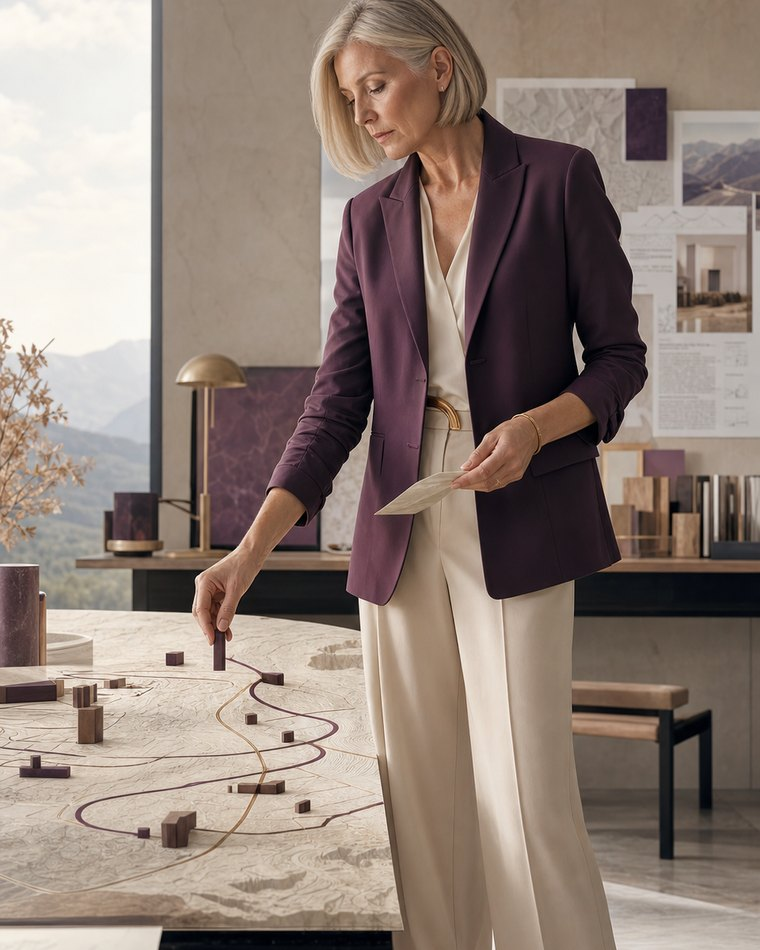
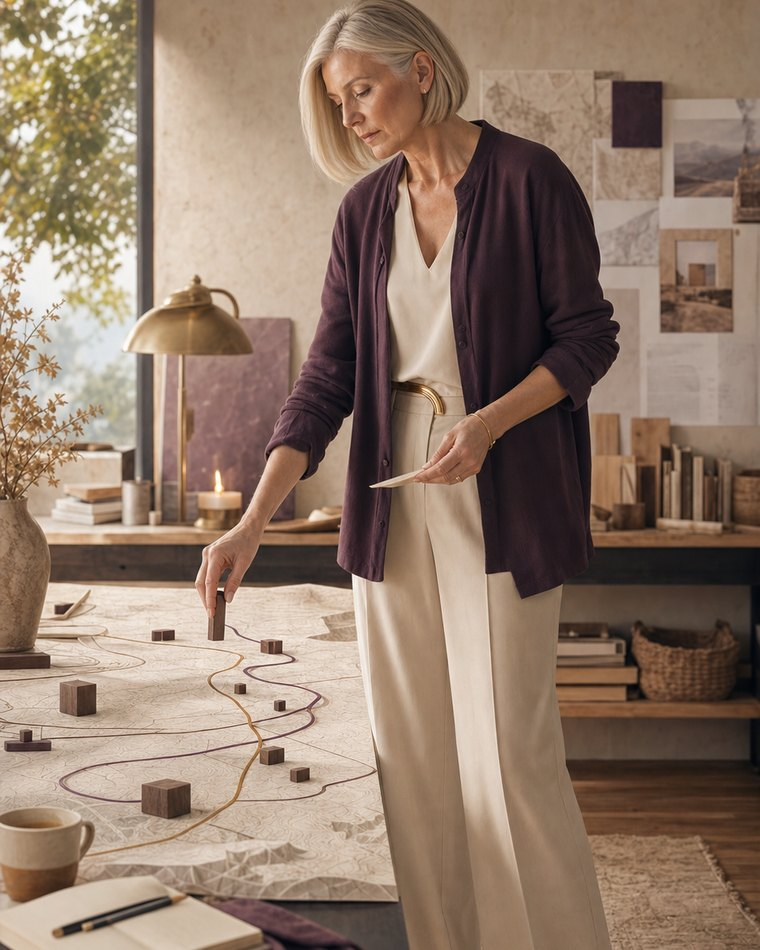
Integrate revised Athena illustration

diff --git a/arhetipy/afina/index.html b/arhetipy/afina/index.html
@@ -25,7 +25,7 @@
   <link rel="icon" type="image/png" href="/assets/evolution-house-logo-approved.png">
   <link rel="stylesheet" href="/styles.css">
   <link rel="stylesheet" href="/article-library.css?v=20260727-reading-nav-2">
-  <link rel="stylesheet" href="/assets/archetype-articles/inserts/archetype-inserts.css?v=20260727-visual-fix-2">
+  <link rel="stylesheet" href="/assets/archetype-articles/inserts/archetype-inserts.css?v=20260730-athena-v2">
   <link rel="stylesheet" href="/cookie-consent.css">
   <script src="/analytics.js" defer></script>
   <script type="application/ld+json">{
@@ -37,7 +37,7 @@
       "headline": "Архетип Афины: как видеть путь и не тащить всё на себе",
       "description": "Что означает архетип Афины в обычной жизни: как видеть направление, менять устаревший план и не превращать ясность в контроль. Объясняет Светлана Страусс.",
       "datePublished": "2026-07-27",
-      "dateModified": "2026-07-29",
+      "dateModified": "2026-07-30",
       "inLanguage": "ru",
       "mainEntityOfPage": "https://evolution.yourbalancerestored.com/arhetipy/afina/",
       "image": "https://evolution.yourbalancerestored.com/assets/archetype-articles/r04/og-1200.jpg",
@@ -157,7 +157,6 @@
 <p>Я увидела, какой она должна быть, оставила в папке ясную задачу и попросила мужа всё собрать. А на самой встрече честно сказала:</p>
 <blockquote><p>Моя Афина, конечно же, напрягла мужа. Она ничего сама не делает. Она видит,</p><p>что надо сделать. В папочке ясная задача.</p></blockquote>
 <p>В этой фразе моя семья узнает меня быстрее, чем в любом описании богини.</p>
-<p>Но в ней есть и главное об Афине: сначала увидеть. Потом уже разбираться, кто и что делает.</p>
 <p>Архетип Афины в системе Evolution House — это способность увидеть направление, собрать последовательность шагов и почувствовать, где уже достаточно. Не холодная деловая женщина в синем костюме и не начальница, которая обязана держать под контролем всё вокруг.</p></div>
         <section id="section-1">
     <h2>Сначала увидеть. Потом уже бежать</h2>
@@ -197,7 +196,33 @@
 <blockquote><p>Это по-прежнему мой путь — или я просто очень хорошо защищаю старое решение?</p></blockquote>
 <p>Зрелая Афина для меня начинается не с правоты, а с этого неловкого взгляда на результат. Иногда после него приходится честно сказать: прежний маршрут закончился.</p>
 <p>Если стратегия всё ещё работает, но из неё ушёл вкус, об этом есть отдельная статья: <a href="/arhetipy/strategiya-bez-vkusa/">«Всё получается, но жить так больше не хочется»</a>.</p>
+    <figure class="archetype-insert archetype-insert--revision-loop archetype-insert--route-r04" aria-labelledby="archetype-insert-R04">
+    <div class="archetype-insert__portrait" aria-label="Архетипические образы">
+      <figure class="archetype-insert__character archetype-insert__character--athena">
+    <picture>
+      <source type="image/webp" srcset="/assets/archetype-articles/inserts/characters/athena/portrait-360.webp 360w, /assets/archetype-articles/inserts/characters/athena/portrait-560.webp 560w, /assets/archetype-articles/inserts/characters/athena/portrait-760.webp 760w" sizes="(max-width: 720px) 42vw, 270px">
+      <img src="/assets/archetype-articles/inserts/characters/athena/portrait-560.jpg" alt="Афина как образ стратегии, ясности и способности пересматривать план" width="560" height="700" loading="lazy" decoding="async">
+    </picture>
+    <figcaption>Афина</figcaption>
+  </figure>
 
+    </div>
+    <div class="archetype-insert__explanation">
+      <p class="archetype-insert__eyebrow">Когда прежний план закончился</p>
+      <h3 id="archetype-insert-R04">Пересмотр маршрута — тоже работа Афины</h3>
+      <p class="archetype-insert__description">Она сравнивает замысел с тем, что получилось на деле, и меняет путь там, где прежняя схема больше не ведёт вперёд.</p>
+      <ol class="archetype-insert__nodes"><li style="--node-index:0">
+        <span>Замысел</span>
+        <strong>куда я хотела прийти</strong>
+      </li><li style="--node-index:1">
+        <span>Результат</span>
+        <strong>что получилось на деле</strong>
+      </li><li style="--node-index:2">
+        <span>Новый путь</span>
+        <strong>что теперь меняю</strong>
+      </li></ol>
+    </div>
+  </figure>
   </section><section id="section-4">
     <h2>«Мама, не говори со мной таким тоном»</h2>
     <p>Когда моя рабочая Афина уставала, она становилась очень резкой.</p>
@@ -215,10 +240,10 @@
   </section><section id="section-5">
     <h2>Как архетип Афины проявляется в обычной жизни</h2>
     <p>Она не обязательно руководит компанией и не обязана любить таблицы.</p>
-<p>Иногда её работа начинается ещё до списка дел. Вас зовут в новый проект, все уже обсуждают сроки, а она спрашивает: «Подождите. Куда меня зовут?» Или смотрит на длинный список срочных дел и вдруг понимает: половину можно не делать. К главному она не имеет отношения.</p>
+<p>Иногда её работа начинается ещё до списка дел. Вас зовут в новый проект, все уже обсуждают сроки, а она спрашивает: «Подождите. Куда меня зовут?» Или смотрит на длинный список срочных дел и вдруг понимает: половину можно не делать. Половина к главному не имеет отношения.</p>
 <p>Другой непростой момент — отдать человеку не маленькое поручение, которое вы потом трижды перепроверите, а целый участок работы. Договориться о результате и не стоять рядом. Вот здесь Афине особенно трудно поверить, что мир не рухнет.</p>
-<p>А иногда жизнь уже изменилась, а план делает вид, что ничего не произошло. Тогда Афине приходится признать это первой. Или спокойно сказать: «Этого я пока не вижу» — и не заполнять неизвестность красивым объяснением.</p>
-<p>Для этого необязательно срочно решать, «Афина вы» или нет. Гораздо интереснее заметить, что происходит с вашей стратегией сейчас.</p>
+<p>Бывает, жизнь уже изменилась, а план делает вид, что ничего не произошло. Тогда Афине приходится признать это первой. Или спокойно сказать: «Этого я пока не вижу» — и не заполнять неизвестность красивым объяснением.</p>
+<p>Необязательно срочно решать, «Афина вы» или нет. Гораздо интереснее заметить, что происходит с вашей стратегией сейчас.</p>
 <p>Она действительно помогает жить — или только выдаёт новые задания?</p>
 
   </section><section id="section-6">

diff --git a/assets/archetype-articles/inserts/archetype-inserts.css b/assets/archetype-articles/inserts/archetype-inserts.css
@@ -629,6 +629,14 @@
   transform: none;
 }
 
+.archetype-insert--route-r04 .archetype-insert__portrait {
+  align-items: center;
+}
+
+.archetype-insert--route-r04 .archetype-insert__character img {
+  height: auto;
+}
+
 /* R05: two independent sides overlap only in the agreed common field. */
 .archetype-insert--overlap .archetype-insert__nodes {
   grid-template-columns: 1fr 0.88fr 1fr;
@@ -944,6 +952,21 @@
 
   .archetype-insert__character img {
     max-height: 290px;
+  }
+
+  .archetype-insert--route-r04 .archetype-insert__portrait {
+    justify-content: center;
+    max-height: none;
+    padding-inline: 0;
+  }
+
+  .archetype-insert--route-r04 .archetype-insert__character {
+    flex: 0 1 74%;
+    max-width: 74%;
+  }
+
+  .archetype-insert--route-r04 .archetype-insert__character img {
+    max-height: none;
   }
 
   .archetype-insert--layout-ensemble {

diff --git a/arhetipy/afrodita/index.html b/arhetipy/afrodita/index.html
@@ -25,7 +25,7 @@
   <link rel="icon" type="image/png" href="/assets/evolution-house-logo-approved.png">
   <link rel="stylesheet" href="/styles.css">
   <link rel="stylesheet" href="/article-library.css?v=20260727-reading-nav-2">
-  <link rel="stylesheet" href="/assets/archetype-articles/inserts/archetype-inserts.css?v=20260727-visual-fix-2">
+  <link rel="stylesheet" href="/assets/archetype-articles/inserts/archetype-inserts.css?v=20260730-athena-v2">
   <link rel="stylesheet" href="/cookie-consent.css">
   <script src="/analytics.js" defer></script>
   <script type="application/ld+json">{

diff --git a/arhetipy/artemida/index.html b/arhetipy/artemida/index.html
@@ -25,7 +25,7 @@
   <link rel="icon" type="image/png" href="/assets/evolution-house-logo-approved.png">
   <link rel="stylesheet" href="/styles.css">
   <link rel="stylesheet" href="/article-library.css?v=20260727-reading-nav-2">
-  <link rel="stylesheet" href="/assets/archetype-articles/inserts/archetype-inserts.css?v=20260727-visual-fix-2">
+  <link rel="stylesheet" href="/assets/archetype-articles/inserts/archetype-inserts.css?v=20260730-athena-v2">
   <link rel="stylesheet" href="/cookie-consent.css">
   <script src="/analytics.js" defer></script>
   <script type="application/ld+json">{

diff --git a/arhetipy/chto-eto/index.html b/arhetipy/chto-eto/index.html
@@ -25,7 +25,7 @@
   <link rel="icon" type="image/png" href="/assets/evolution-house-logo-approved.png">
   <link rel="stylesheet" href="/styles.css">
   <link rel="stylesheet" href="/article-library.css?v=20260727-reading-nav-2">
-  <link rel="stylesheet" href="/assets/archetype-articles/inserts/archetype-inserts.css?v=20260727-visual-fix-2">
+  <link rel="stylesheet" href="/assets/archetype-articles/inserts/archetype-inserts.css?v=20260730-athena-v2">
   <link rel="stylesheet" href="/cookie-consent.css">
   <script src="/analytics.js" defer></script>
   <script type="application/ld+json">{

diff --git a/arhetipy/demetra/index.html b/arhetipy/demetra/index.html
@@ -25,7 +25,7 @@
   <link rel="icon" type="image/png" href="/assets/evolution-house-logo-approved.png">
   <link rel="stylesheet" href="/styles.css">
   <link rel="stylesheet" href="/article-library.css?v=20260727-reading-nav-2">
-  <link rel="stylesheet" href="/assets/archetype-articles/inserts/archetype-inserts.css?v=20260727-visual-fix-2">
+  <link rel="stylesheet" href="/assets/archetype-articles/inserts/archetype-inserts.css?v=20260730-athena-v2">
   <link rel="stylesheet" href="/cookie-consent.css">
   <script src="/analytics.js" defer></script>
   <script type="application/ld+json">{

diff --git a/arhetipy/gekata/index.html b/arhetipy/gekata/index.html
@@ -25,7 +25,7 @@
   <link rel="icon" type="image/png" href="/assets/evolution-house-logo-approved.png">
   <link rel="stylesheet" href="/styles.css">
   <link rel="stylesheet" href="/article-library.css?v=20260727-reading-nav-2">
-  <link rel="stylesheet" href="/assets/archetype-articles/inserts/archetype-inserts.css?v=20260727-visual-fix-2">
+  <link rel="stylesheet" href="/assets/archetype-articles/inserts/archetype-inserts.css?v=20260730-athena-v2">
   <link rel="stylesheet" href="/cookie-consent.css">
   <script src="/analytics.js" defer></script>
   <script type="application/ld+json">{

diff --git a/arhetipy/gera/index.html b/arhetipy/gera/index.html
@@ -25,7 +25,7 @@
   <link rel="icon" type="image/png" href="/assets/evolution-house-logo-approved.png">
   <link rel="stylesheet" href="/styles.css">
   <link rel="stylesheet" href="/article-library.css?v=20260727-reading-nav-2">
-  <link rel="stylesheet" href="/assets/archetype-articles/inserts/archetype-inserts.css?v=20260727-visual-fix-2">
+  <link rel="stylesheet" href="/assets/archetype-articles/inserts/archetype-inserts.css?v=20260730-athena-v2">
   <link rel="stylesheet" href="/cookie-consent.css">
   <script src="/analytics.js" defer></script>
   <script type="application/ld+json">{

diff --git a/arhetipy/gestiya/index.html b/arhetipy/gestiya/index.html
@@ -25,7 +25,7 @@
   <link rel="icon" type="image/png" href="/assets/evolution-house-logo-approved.png">
   <link rel="stylesheet" href="/styles.css">
   <link rel="stylesheet" href="/article-library.css?v=20260727-reading-nav-2">
-  <link rel="stylesheet" href="/assets/archetype-articles/inserts/archetype-inserts.css?v=20260727-visual-fix-2">
+  <link rel="stylesheet" href="/assets/archetype-articles/inserts/archetype-inserts.css?v=20260730-athena-v2">
   <link rel="stylesheet" href="/cookie-consent.css">
   <script src="/analytics.js" defer></script>
   <script type="application/ld+json">{

diff --git a/arhetipy/hochyu-no-ne-deystvuyu/index.html b/arhetipy/hochyu-no-ne-deystvuyu/index.html
@@ -25,7 +25,7 @@
   <link rel="icon" type="image/png" href="/assets/evolution-house-logo-approved.png">
   <link rel="stylesheet" href="/styles.css">
   <link rel="stylesheet" href="/article-library.css?v=20260727-reading-nav-2">
-  <link rel="stylesheet" href="/assets/archetype-articles/inserts/archetype-inserts.css?v=20260727-visual-fix-2">
+  <link rel="stylesheet" href="/assets/archetype-articles/inserts/archetype-inserts.css?v=20260730-athena-v2">
   <link rel="stylesheet" href="/cookie-consent.css">
   <script src="/analytics.js" defer></script>
   <script type="application/ld+json">{

diff --git a/arhetipy/persefona/index.html b/arhetipy/persefona/index.html
@@ -25,7 +25,7 @@
   <link rel="icon" type="image/png" href="/assets/evolution-house-logo-approved.png">
   <link rel="stylesheet" href="/styles.css">
   <link rel="stylesheet" href="/article-library.css?v=20260727-reading-nav-2">
-  <link rel="stylesheet" href="/assets/archetype-articles/inserts/archetype-inserts.css?v=20260727-visual-fix-2">
+  <link rel="stylesheet" href="/assets/archetype-articles/inserts/archetype-inserts.css?v=20260730-athena-v2">
   <link rel="stylesheet" href="/cookie-consent.css">
   <script src="/analytics.js" defer></script>
   <script type="application/ld+json">{

diff --git a/arhetipy/resurs-i-ten/index.html b/arhetipy/resurs-i-ten/index.html
@@ -25,7 +25,7 @@
   <link rel="icon" type="image/png" href="/assets/evolution-house-logo-approved.png">
   <link rel="stylesheet" href="/styles.css">
   <link rel="stylesheet" href="/article-library.css?v=20260727-reading-nav-2">
-  <link rel="stylesheet" href="/assets/archetype-articles/inserts/archetype-inserts.css?v=20260727-visual-fix-2">
+  <link rel="stylesheet" href="/assets/archetype-articles/inserts/archetype-inserts.css?v=20260730-athena-v2">
   <link rel="stylesheet" href="/cookie-consent.css">
   <script src="/analytics.js" defer></script>
   <script type="application/ld+json">{
